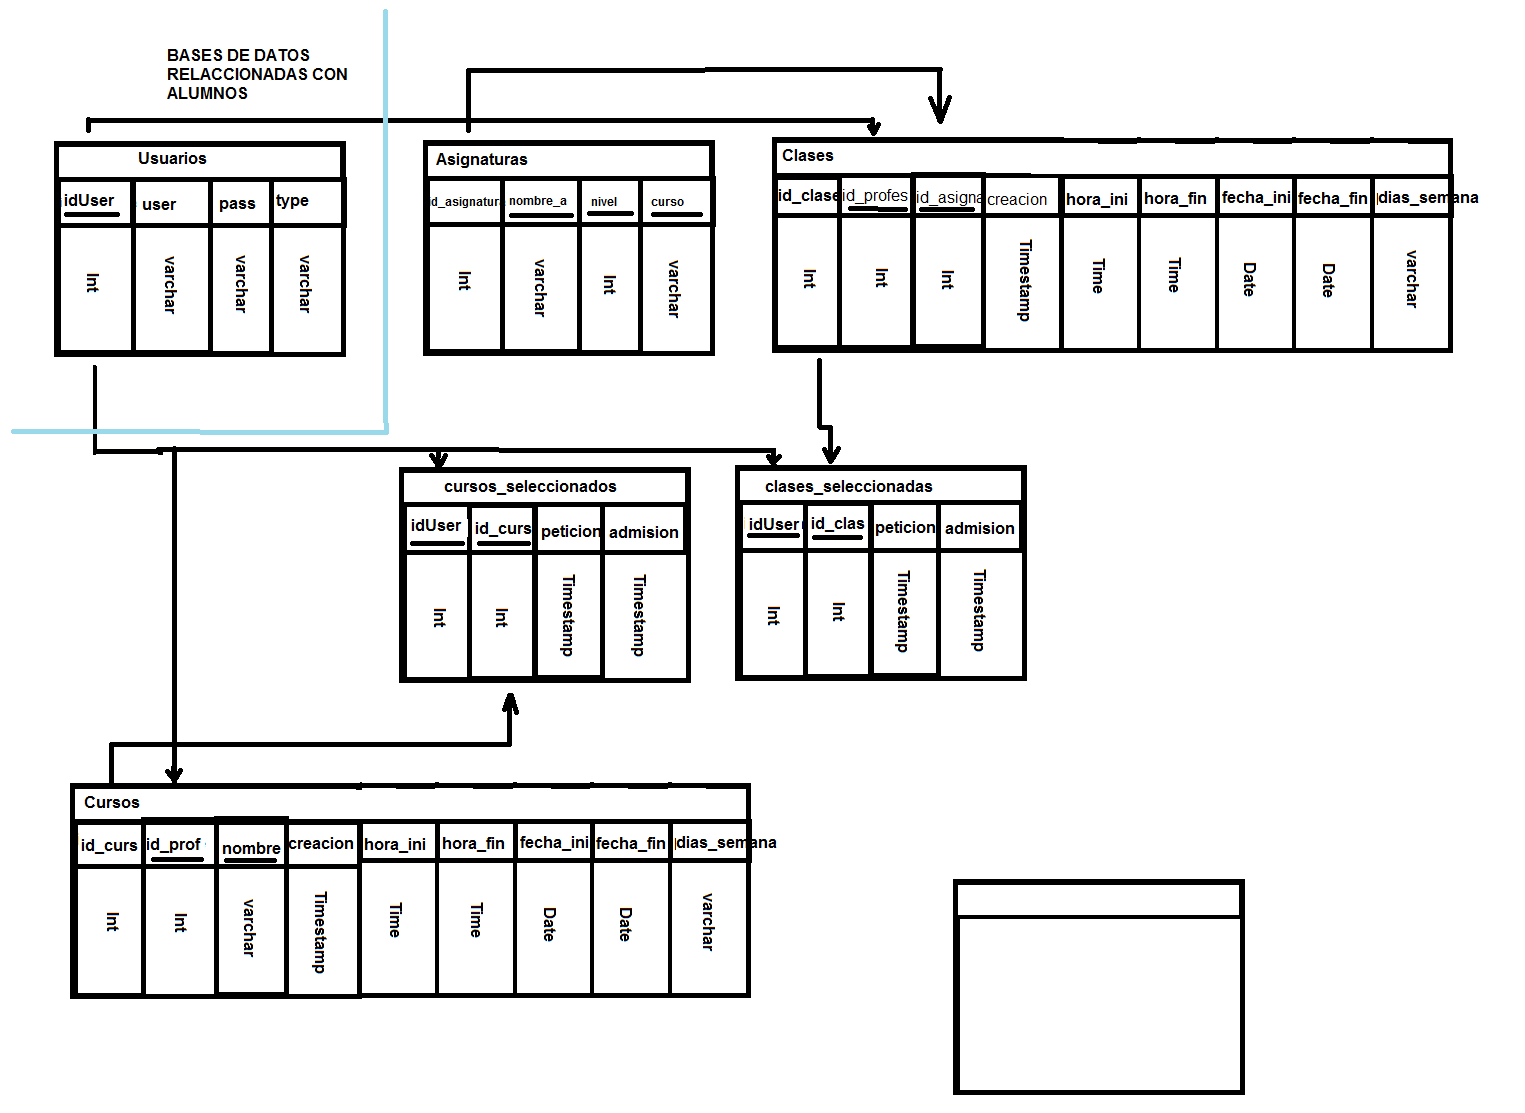
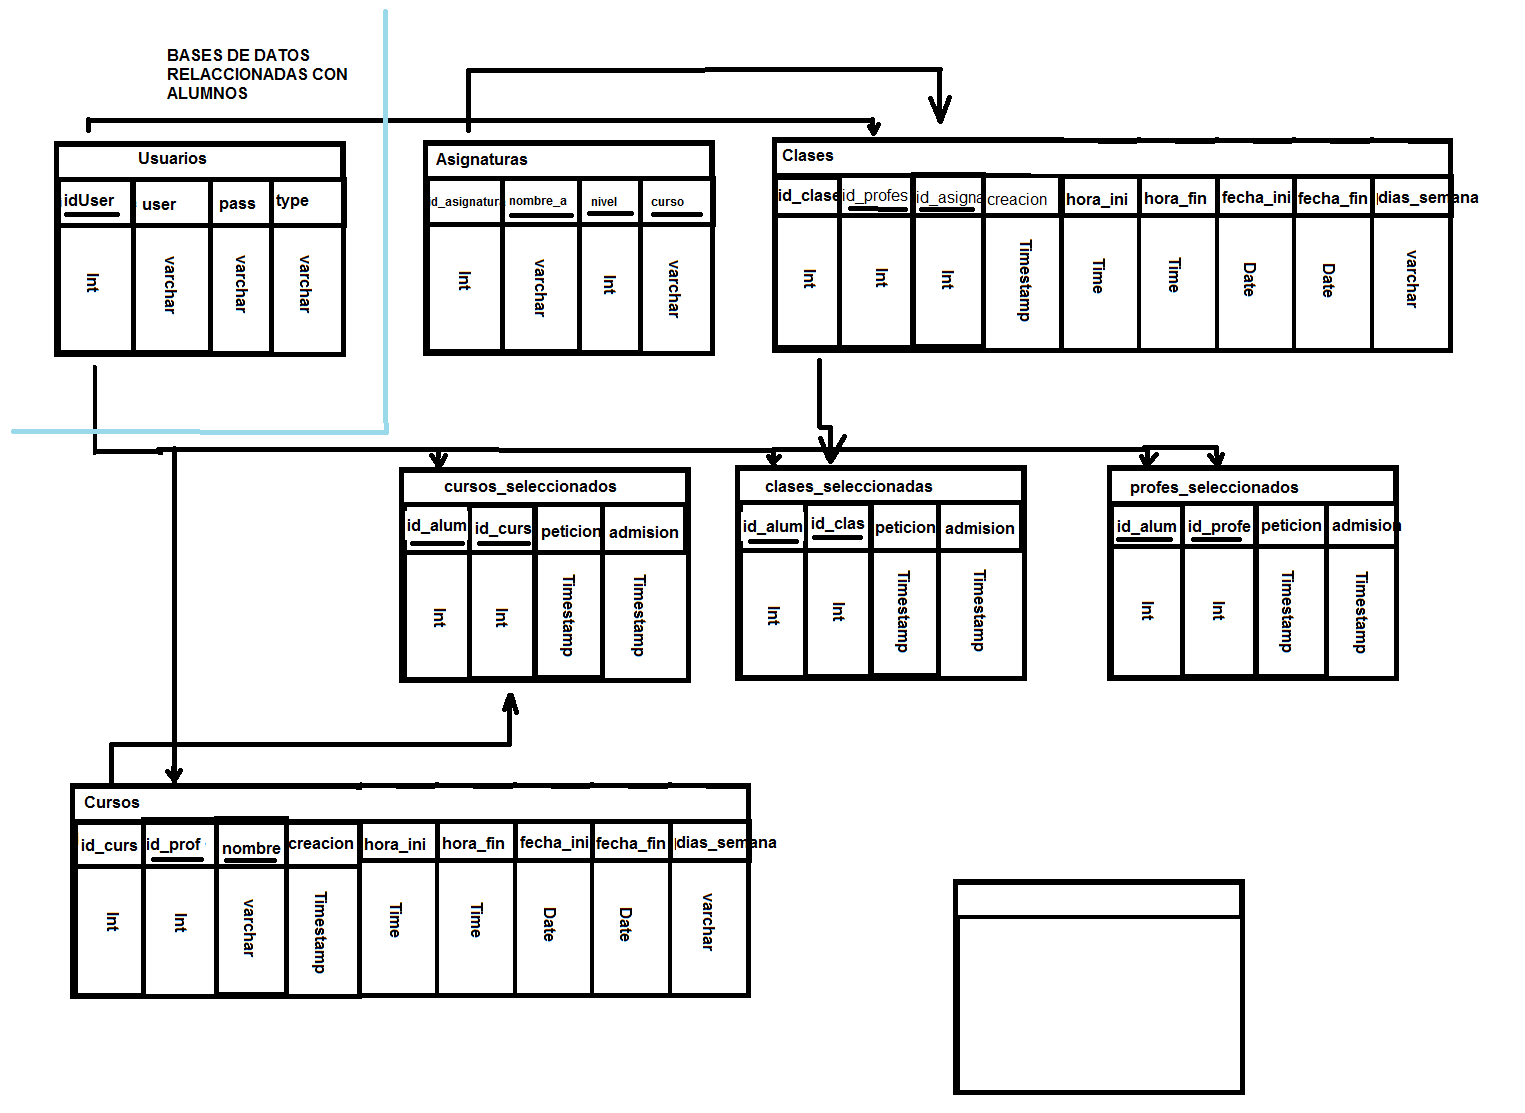
Index alumnos finalizado!!
Ya se accede a todas las bases de datos

Changed region(s): [[0.5239, 0.3971, 0.9246, 0.611], [0.4623, 0.4582, 0.5239, 0.4888], [0.2466, 0.4582, 0.3082, 0.4888]]

diff --git a/css/estructura.css b/css/estructura.css
@@ -1061,13 +1061,13 @@ div.ialumnos_principal
 #mis_clases_1_nombre , #mis_clases_2_nombre, #mis_clases_3_nombre
 {
    float: left;
-   width: 55%;
+   width: 70%;
 }
 
 #mis_clases_1_horario , #mis_clases_2_horario, #mis_clases_3_horario
 {
    float: right;
-   width: 45%;
+   width: 30%;
 }
 
 #spam_principal_por

diff --git a/index_alumnos.php b/index_alumnos.php
@@ -15,8 +15,8 @@
    else if ($_SESSION ["type"] != "alumno")
       header('Location: index.php');
    
-   /* Desde aqui, esta claro que el login es correcto, asique rellenamos la pagina web con la info del alumno */
    
+   /* Desde aqui, esta claro que el login es correcto, asique rellenamos la pagina web con la info del alumno */
    
    // Conectamos con la base de datos
    $conexion = new mysqli ('localhost', 'profesores', 'profesConEstilo', 'profesoresConClase');
@@ -67,6 +67,7 @@
    if ($perfil != "alumno")
       header('Location: index.php');
 
+   
    // El nombre y los apellidos del alumno estan en nombre, apellido1, apellido2
    
    
@@ -119,9 +120,62 @@
       $clases[] = $nombre_asignatura . " " . $nivel . " " . $curso;
       $j++;
    }
+   if ($i == 0)
+      $clases[] = "Puede que me venga bien alguna..."; 
    
    
    // Las tres primeras clases de este alumno estan en el array clases, si hay
+   
+   
+   // Preparamos la query que vamos a ejecutar: Obtenemos la informacion de un grupo seleccionado
+   $sentencia->free_result ();
+   if (! ($sentencia = $conexion->prepare ("SELECT nombre_curso, hora_ini, dias_semana FROM cursos WHERE id_curso IN (SELECT id_curso FROM cursos_seleccionados WHERE id_alumno = (?));")))
+      echo "ERROR: PREPARE (5): " . $conexion->error;
+   // Asociamos la variable a la query: Es el id del usuario logeado
+   if (!$sentencia->bind_param ("i", $_SESSION ["id_user"])) 
+      echo "ERROR: BIND PARAM (5): " . $conexion->error;
+   // Ejecutamos la query en la BD
+   if (!$sentencia->execute ())
+      echo "ERROR: EXECUTE (5): " . $conexion->error;
+   // Vinculamos la salida a otras variables: Esperamos la info de la clase
+   if (!$sentencia->bind_result ($nombre_curso, $hora_ini, $dias_semana))
+      echo "ERROR: BIND RESULT (5): " . $conexion->error;
+   // Recorremos las 3 primeras filas, si hay
+   $i = 0;
+   while ($sentencia->fetch () && i < 3)
+   {
+      $cursos[] = $nombre_curso . " a las " . $hora_ini . " - " . $dias_semana;
+      $i++;
+   }
+   if ($i == 0)
+      $cursos[] = "¡Estaría bien apuntarse a uno!"; 
+   
+   
+   // Los tres primeros cursos de este alumno estan en el array cursos, si hay
+   
+   
+   // Preparamos la query que vamos a ejecutar: Obtenemos la informacion de un grupo seleccionado
+   $sentencia->free_result ();
+   if (! ($sentencia = $conexion->prepare ("SELECT user FROM usuarios WHERE idUser IN (SELECT id_profesor FROM profes_seleccionados WHERE id_alumno = (?));")))
+      echo "ERROR: PREPARE (5): " . $conexion->error;
+   // Asociamos la variable a la query: Es el id del usuario logeado
+   if (!$sentencia->bind_param ("i", $_SESSION ["id_user"])) 
+      echo "ERROR: BIND PARAM (5): " . $conexion->error;
+   // Ejecutamos la query en la BD
+   if (!$sentencia->execute ())
+      echo "ERROR: EXECUTE (5): " . $conexion->error;
+   // Vinculamos la salida a otras variables: Esperamos la info de la clase
+   if (!$sentencia->bind_result ($user_profesor))
+      echo "ERROR: BIND RESULT (5): " . $conexion->error;
+   // Recorremos las 3 primeras filas, si hay
+   $i = 0;
+   while ($sentencia->fetch () && i < 3)
+   {
+      $profesores[] = $user_profesor;
+      $i++;
+   }
+   if ($i == 0)
+      $profesores[] = "¿Ningun profesor interesante?"; 
    
    
    // Cerramos conexion con la base de datos
@@ -130,10 +184,12 @@
       echo "ERROR: CLOSE: " . $conexion->error;
 ?>
 
-<html>
+<html lang="es-ES">
 	<head>
 		<title>Profesores con clase</title>
 		<meta charset="utf-8"/>
+      <meta name="author" content="Sistemas web 15/16">
+      <meta name="description" content="Pagina principal de los alumnos">
       <meta name="viewport" content="width=device-width, initial-scale=1.0, user-scalable=yes">
       <link href='https://fonts.googleapis.com/css?family=Ubuntu' rel='stylesheet' type='text/css'>
       <link rel="stylesheet" type="text/css" href="css/reset.css"/>
@@ -159,9 +215,9 @@
                <div id="mis_profesores" class="pulsable">
                   <h1 class="pulsable">Mis profesores</h1>
                   <!--p id ="mis_profesores_1" class="pulsable">Rafael del Vado López</p-->
-                  <p id ="mis_profesores_1" class="pulsable"> <?php if ($profesores [0] != null) echo $profesores [0]; else echo '<br>'; ?> </p>
-                  <p id ="mis_profesores_2" class="pulsable"> <?php if ($profesores [1] != null) echo $profesores [1]; else echo '<br>'; ?> </p>
-                  <p id ="mis_profesores_3" class="pulsable"> <?php if ($profesores [2] != null) echo $profesores [2]; else echo '<br>'; ?> </p>
+                  <p id ="mis_profesores_1" class="pulsable" title="<?php echo $profesores [0]; ?>"> <?php if ($profesores [0] != null) echo $profesores [0]; else echo '<br>'; ?> </p>
+                  <p id ="mis_profesores_2" class="pulsable" title="<?php echo $profesores [1]; ?>"> <?php if ($profesores [1] != null) echo $profesores [1]; else echo '<br>'; ?> </p>
+                  <p id ="mis_profesores_3" class="pulsable" title="<?php echo $profesores [2]; ?>"> <?php if ($profesores [2] != null) echo $profesores [2]; else echo '<br>'; ?> </p>
                </div>
                <div id="correo_alumno" class="pulsable">
                   <h1 class="pulsable">Correo</h1>
@@ -171,9 +227,9 @@
             <div id="bloque_2">
                <div id="mis_cursos" class="pulsable">
                   <h1 class="pulsable">Mis cursos</h1>
-                  <p id ="mis_grupos_1" class="pulsable"> <?php if ($cursos [0] != null) echo $cursos [0]; else echo '<br>'; ?> </p>
-                  <p id ="mis_grupos_2" class="pulsable"> <?php if ($cursos [1] != null) echo $cursos [1]; else echo '<br>'; ?> </p>
-                  <p id ="mis_grupos_3" class="pulsable"> <?php if ($cursos [2] != null) echo $cursos [2]; else echo '<br>'; ?> </p>
+                  <p id ="mis_grupos_1" class="pulsable" title="<?php echo $cursos [0]; ?>"> <?php if ($cursos [0] != null) echo $cursos [0]; else echo '<br>'; ?> </p>
+                  <p id ="mis_grupos_2" class="pulsable" title="<?php echo $cursos [1]; ?>"> <?php if ($cursos [1] != null) echo $cursos [1]; else echo '<br>'; ?> </p>
+                  <p id ="mis_grupos_3" class="pulsable" title="<?php echo $cursos [2]; ?>"> <?php if ($cursos [2] != null) echo $cursos [2]; else echo '<br>'; ?> </p>
                </div>
                <div id="top_10_profesores" class="pulsable">
                   <h1 class="pulsable">Top 10 profesores</h1>
@@ -184,16 +240,16 @@
                <div id="mis_clases" class="pulsable">
                   <h1 class="pulsable">Mis clases</h1>
                   <div id="mis_clases_1" class="pulsable">
-                     <p id ="mis_clases_1_nombre" class="pulsable">  <?php if ($clases [0] != null) echo $clases [0]; else echo '<br>'; ?> </p>
-                     <p id ="mis_clases_1_horario" class="pulsable"> <?php if ($horas_clases [0] != null) echo $horas_clases [0]; else echo '<br>'; ?> </p>
+                     <p id ="mis_clases_1_nombre" class="pulsable" title="<?php echo $clases [0]; ?>">  <?php if ($clases [0] != null) echo $clases [0]; else echo '<br>'; ?> </p>
+                     <p id ="mis_clases_1_horario" class="pulsable" title="<?php echo $horas_clases [0]; ?>"> <?php if ($horas_clases [0] != null) echo $horas_clases [0]; else echo '<br>'; ?> </p>
                   </div>
                   <div id="mis_clases_2" class="pulsable">
-                     <p id ="mis_clases_2_nombre" class="pulsable">  <?php if ($clases [1] != null) echo $clases [1]; else echo '<br>'; ?> </p>
-                     <p id ="mis_clases_2_horario" class="pulsable"> <?php if ($horas_clases [1] != null) echo $horas_clases [1]; else echo '<br>'; ?> </p>
+                     <p id ="mis_clases_2_nombre" class="pulsable" title="<?php echo $clases [1]; ?>">  <?php if ($clases [1] != null) echo $clases [1]; else echo '<br>'; ?> </p>
+                     <p id ="mis_clases_2_horario" class="pulsable" title="<?php echo $horas_clases [1]; ?>"> <?php if ($horas_clases [1] != null) echo $horas_clases [1]; else echo '<br>'; ?> </p>
                   </div>
                   <div id="mis_clases_3" class="pulsable">
-                     <p id ="mis_clases_3_nombre" class="pulsable">  <?php if ($clases [2] != null) echo $clases [2]; else echo '<br>'; ?> </p>
-                     <p id ="mis_clases_3_horario" class="pulsable"> <?php if ($horas_clases [2] != null) echo $horas_clases [2]; else echo '<br>'; ?> </p>
+                     <p id ="mis_clases_3_nombre" class="pulsable" title="<?php echo $clases [2]; ?>">  <?php if ($clases [2] != null) echo $clases [2]; else echo '<br>'; ?> </p>
+                     <p id ="mis_clases_3_horario" class="pulsable" title="<?php echo $horas_clases [2]; ?>"> <?php if ($horas_clases [2] != null) echo $horas_clases [2]; else echo '<br>'; ?> </p>
                   </div>
                </div>
                <div id="acciones_no_tan_rapidas">
